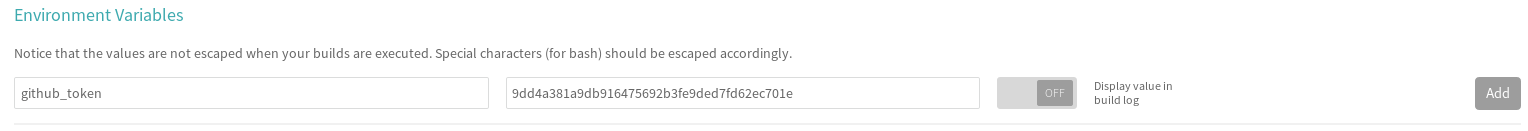
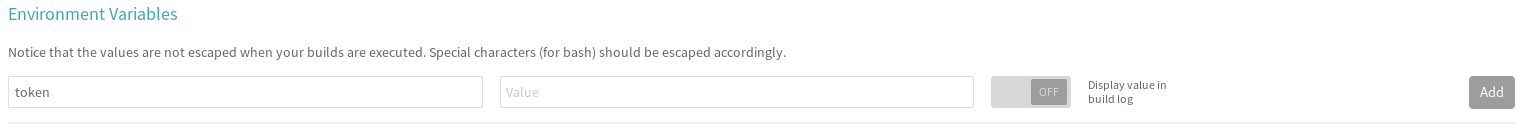
Modified files

diff --git a/README.md b/README.md
@@ -146,7 +146,7 @@ On Travis, select the repository that you just activated and select "More option
     <img src="token01.png"><br>
 </p>
 
-In the "Environment Variables" section, add the GitHub token with the name that was specified in the .travis.yml file. In this case, its name is `github_token`.
+In the "Environment Variables" section, add the GitHub token with the name that was specified in the .travis.yml file. In this case, its name is `token`.
 
 <p align="center">
     <img src="token02.png"><br>
